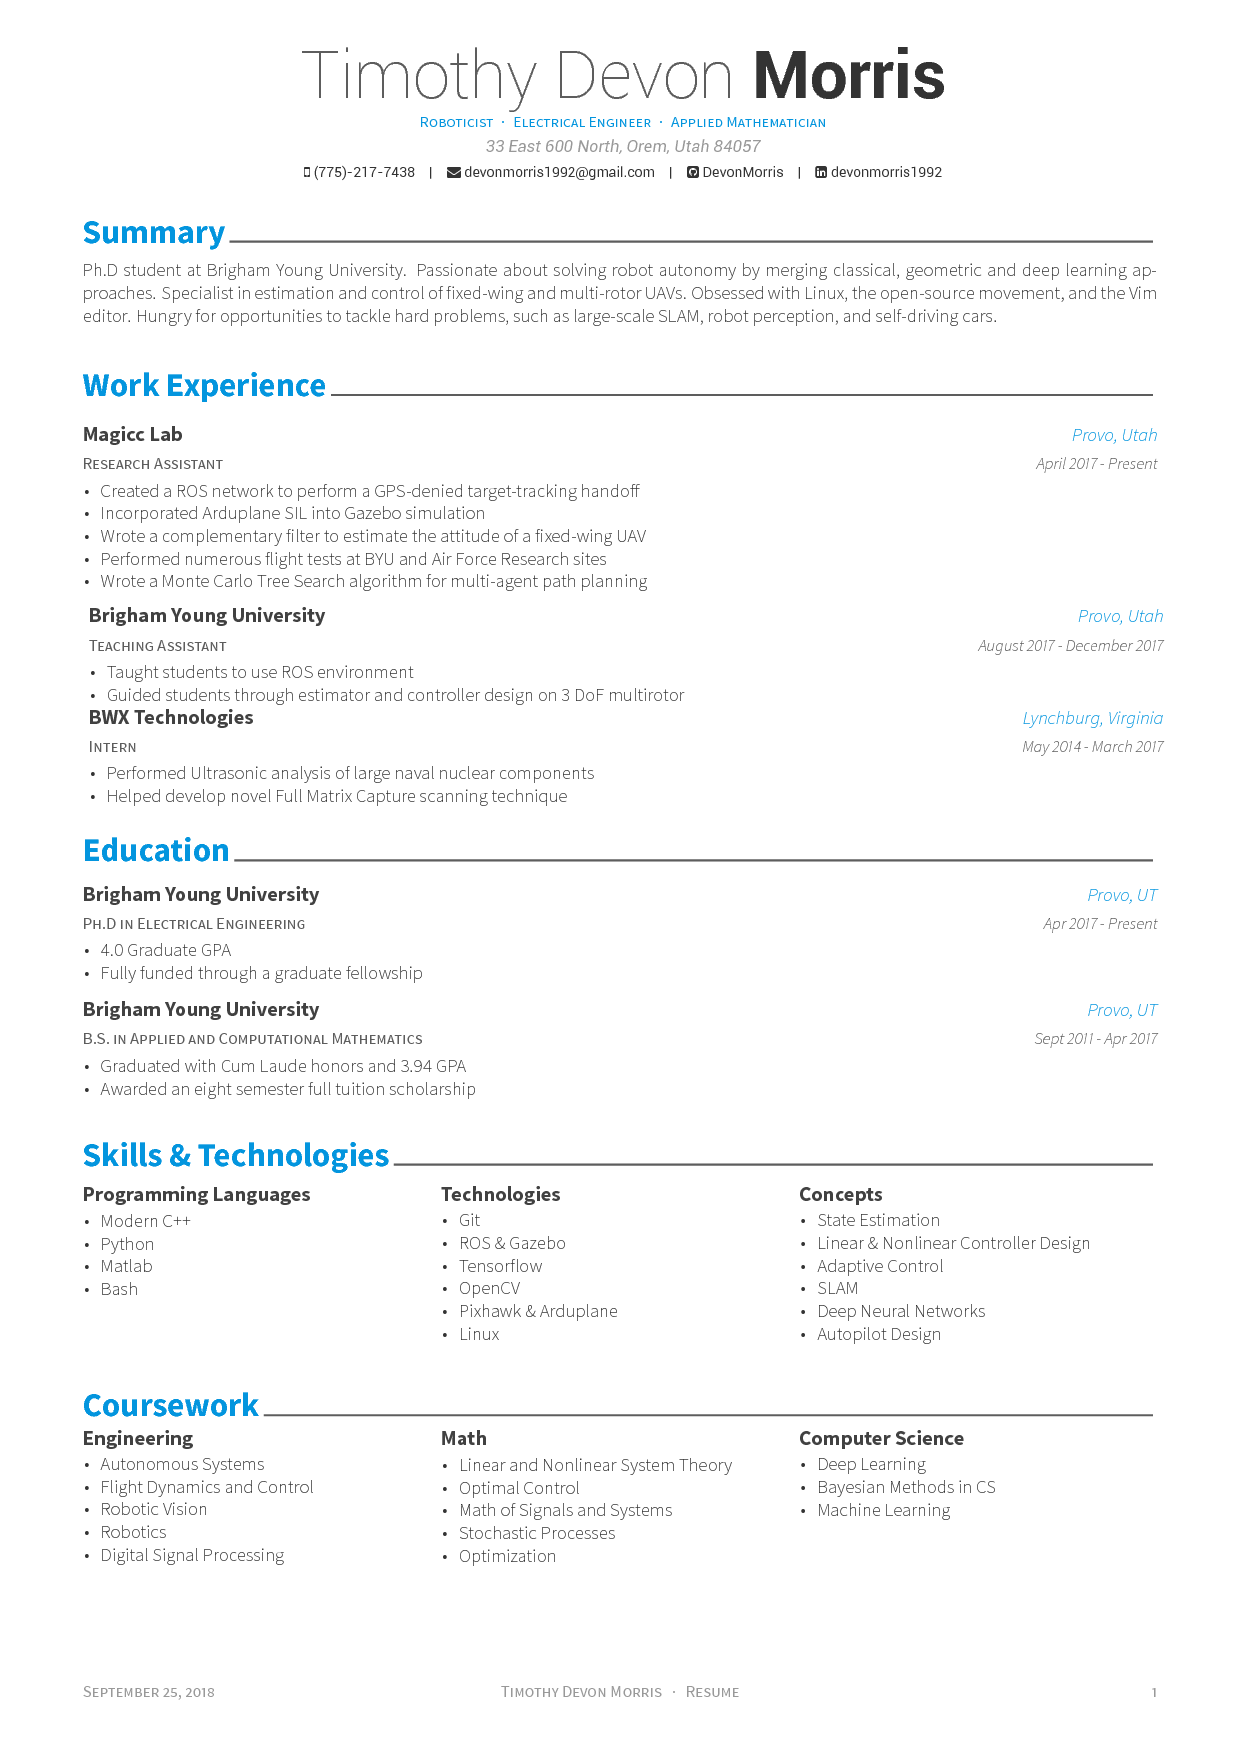
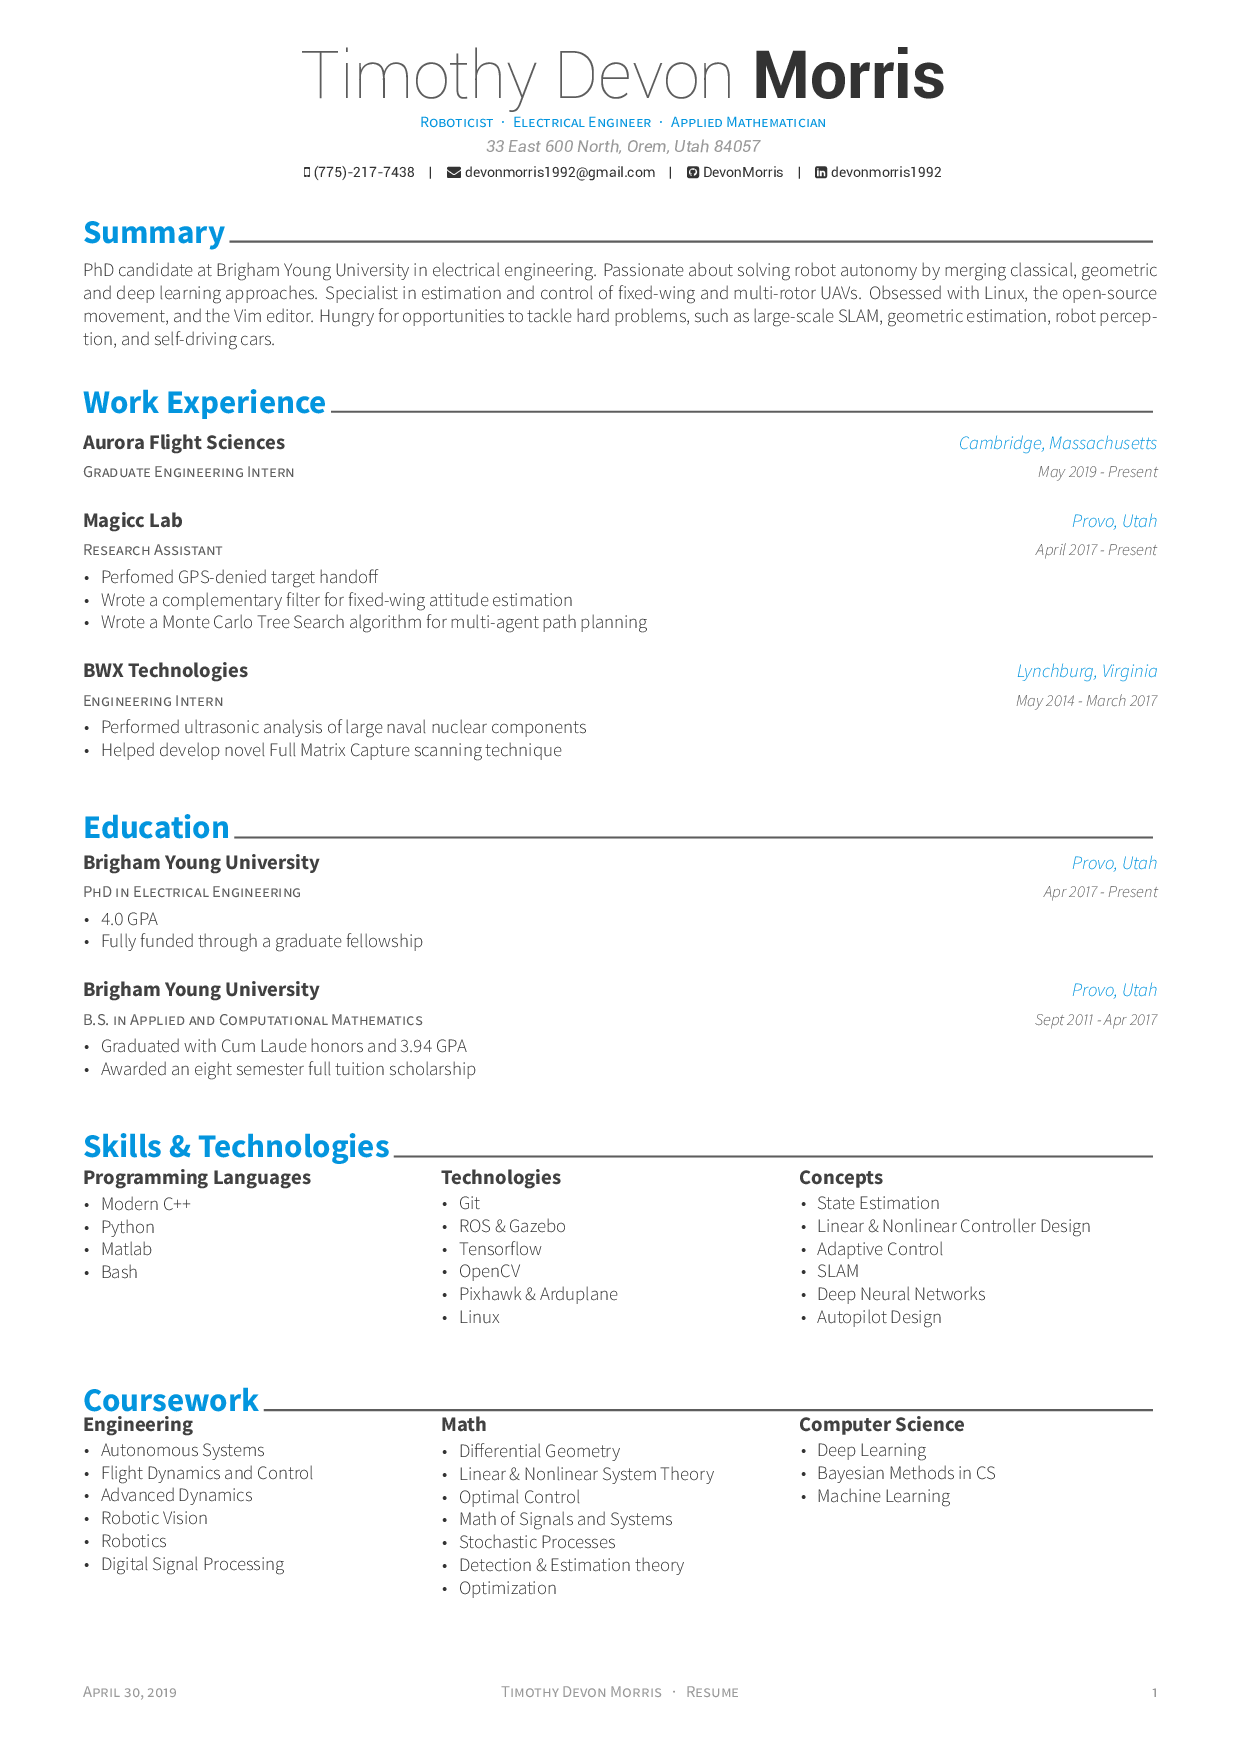
updated readme and little tweak to resume

diff --git a/examples/resume/experience.tex b/examples/resume/experience.tex
@@ -10,15 +10,12 @@
 \begin{cventries}
 
 %---------------------------------------------------------
-  %\cventry
-    %{Intern} % Job title
-    %{Aurora Flight Sciences} % Organization
-    %{Cambridge, Massachusetts} % Location
-    %{May 2019 - Present} % Date(s)
-    %{
-      %\begin{cvitems}
-      %\end{cvitems}
-    %}
+  \scventry
+    {Graduate Engineering Intern} % Job title
+    {Aurora Flight Sciences} % Organization
+    {Cambridge, Massachusetts} % Location
+    {May 2019 - Present} % Date(s)
+
   \cventry
     {Research Assistant} % Job title
     {Magicc Lab} % Organization
@@ -27,27 +24,29 @@
     {
       \begin{cvitems} % Description(s) of tasks/responsibilities
       \item  {Perfomed GPS-denied target handoff}
-      \item  {Incorporated Arduplane SIL into Gazebo simulation}
+      %\item  {Incorporated Arduplane SIL into Gazebo simulation}
       \item  {Wrote a complementary filter for fixed-wing attitude estimation}
-      \item  {Performed numerous flight tests at BYU and Air Force sites}
+      %\item  {Performed numerous flight tests at BYU and Air Force sites}
       \item  {Wrote a Monte Carlo Tree Search algorithm for multi-agent path planning}
       \end{cvitems}
     }
+
+%---------------------------------------------------------
+  %\cventry
+    %{Teaching Assistant} % Job title
+    %{Brigham Young University} % Organization
+    %{Provo, Utah} % Location
+    %{August 2017 - December 2017} % Date(s)
+    %{
+      %\begin{cvitems} % Description(s) of tasks/responsibilities
+      %\item {Taught students to use ROS environment} 
+      %\item {Guided students through estimator and controller design on 3 DoF multirotor}
+      %\end{cvitems}
+    %}
+
 %---------------------------------------------------------
   \cventry
-    {Teaching Assistant} % Job title
-    {Brigham Young University} % Organization
-    {Provo, Utah} % Location
-    {August 2017 - December 2017} % Date(s)
-    {
-      \begin{cvitems} % Description(s) of tasks/responsibilities
-      \item {Taught students to use ROS environment} 
-      \item {Guided students through estimator and controller design on 3 DoF multirotor}
-      \end{cvitems}
-    }
-%---------------------------------------------------------
-  \cventry
-    {Intern} % Job title
+    {Engineering Intern} % Job title
     {BWX Technologies} % Organization
     {Lynchburg, Virginia} % Location
     {May 2014 - March 2017} % Date(s)

diff --git a/examples/resume/education.tex b/examples/resume/education.tex
@@ -13,7 +13,7 @@
   \cventry
     {PhD in Electrical Engineering} % Degree
     {Brigham Young University} % Institution
-    {Provo, UT} % Location
+    {Provo, Utah} % Location
     {Apr 2017 - Present} % Date(s)
     {
       \begin{cvitems}
@@ -26,7 +26,7 @@
   \cventry
     {B.S. in Applied and Computational Mathematics} % Degree
     {Brigham Young University} % Institution
-    {Provo, UT} % Location
+    {Provo, Utah} % Location
     {Sept 2011 - Apr 2017} % Date(s)
     {
       \begin{cvitems} % Description(s) bullet points

diff --git a/README.md b/README.md
@@ -1,8 +1,15 @@
+# CV
+You can see a [PDF of my CV here.](https://github.com/DevonMorris/Resume-CV/blob/master/examples/cv.pdf)
+
+[![CV](https://raw.githubusercontent.com/DevonMorris/Resume-CV/master/examples/cv-0.png)](https://github.com/DevonMorris/Resume-CV/blob/master/examples/cv.pdf)
+[![CV](https://raw.githubusercontent.com/DevonMorris/Resume-CV/master/examples/cv-1.png)](https://github.com/DevonMorris/Resume-CV/blob/master/examples/cv.pdf)
+
 # Résumé
 
 You can see the [PDF here.](https://github.com/DevonMorris/Resume-CV/blob/master/examples/resume.pdf)
 
 [![Résumé](https://raw.githubusercontent.com/DevonMorris/Resume-CV/master/examples/resume-0.png)](https://github.com/DevonMorris/Resume-CV/blob/master/examples/resume.pdf) 
+
 
 <!--# Cover Letter-->
 
